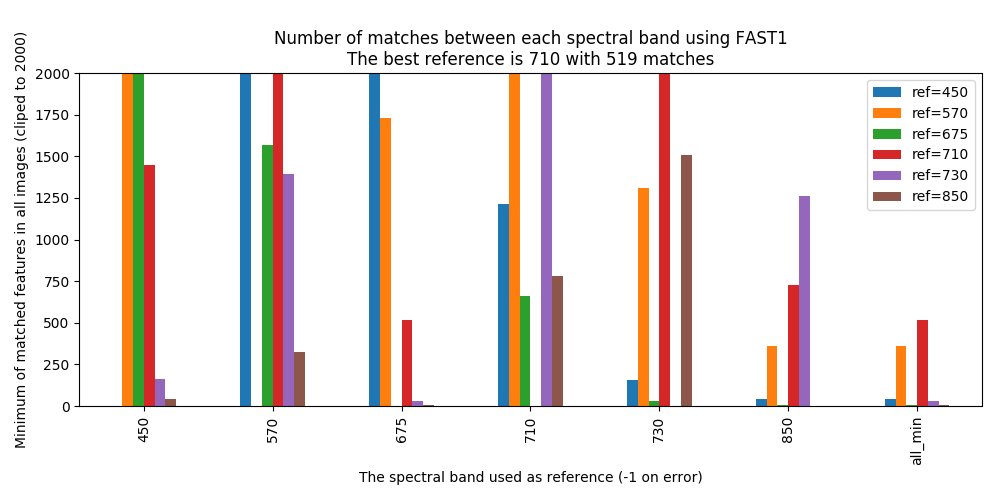
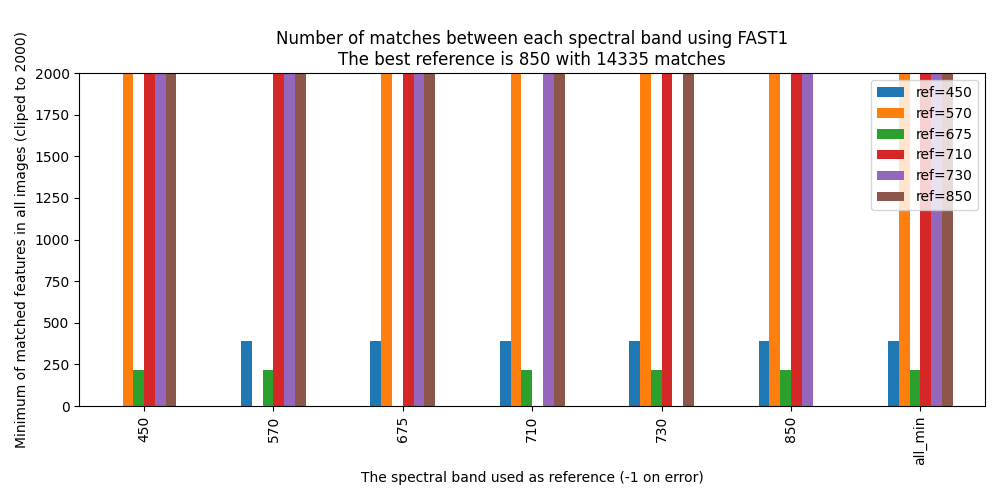
new figures

diff --git a/8.time-reference-plot.py b/8.time-reference-plot.py
@@ -10,14 +10,16 @@ all_best = []
 
 for method in all_methods:
     data = np.load('figures/keypoint-reference-count-'+method+'.npy', allow_pickle=True)
-    time = data[:,:,6].mean()
+    data[data==None] = 0
+    time = data[:,:,6]#.mean()
     data = data[:,:,:6]
 
     data = np.min(data, axis=0)
     all_min = data.astype('float')
+    
     for i in range(data.shape[1]):
         all_min[i,i] = np.Inf
-    best = all_min.min(axis=0).max()
+    best = all_min.min()
     
     all_times.append(time.mean())
     all_best.append(best)
@@ -25,8 +27,8 @@ pass
 
 all_times = np.array(all_times)
 all_best = np.array(all_best)
-value = all_best / all_times * 2
-merged = np.vstack([all_times * 10, all_best, value]).transpose()
+value = all_best / all_times
+merged = np.vstack([all_times*10, all_best, value]).transpose()
 
 fig, axes = plt.subplots(1, 1, figsize=(10,5))
 columns = ['10x time in seconds', 'number of matches', 'matches/time']
@@ -39,8 +41,8 @@ df = pd.DataFrame(
 df = df.sort_values(['matches/time'])
 #df = df.sort_values([columns[0]])
 df.plot(ax=axes, kind='bar')
-plt.ylim([0,500])
-plt.yticks(np.arange(0,550,50))
+#plt.ylim([0,500])
+#plt.yticks(np.arange(0,550,50))
 
 plt.xlabel('Methodes and modalities')
 plt.ylabel('Performances in different terms (time, matches, ...)')

diff --git a/8.best-reference-plot-merged.py b/8.best-reference-plot-merged.py
@@ -11,7 +11,9 @@ all_times = []
 
 for method in all_methods:
     data = np.load('figures/keypoint-reference-count-'+method+'.npy', allow_pickle=True)
-    time = data[:,:,6].mean()
+    data[data==None] = 0
+    print(data)
+    time = data[:,:,6]
     data = data[:,:,:6]
     
     print(method + ' >> ' + str(time))
@@ -48,7 +50,7 @@ df = pd.DataFrame(
                  
 df.plot(kind='bar',figsize=(6,5))
 
-plt.ylim([-1,600])
+#plt.ylim([-1,600])
 plt.title('Number of matches between each spectral \n for each relevant methods')
 plt.legend(loc='upper right')
 plt.tight_layout(rect=(0,0,1,0.97))

diff --git a/8.best-reference-plot.py b/8.best-reference-plot.py
@@ -7,6 +7,7 @@ from airphen.data import *
 
 for method in all_methods:
     data = np.load('figures/keypoint-reference-count-'+method+'.npy', allow_pickle=True)
+    data[data==None] = 0
     data = data[:,:,:6]
 
     data = np.min(data, axis=0)
